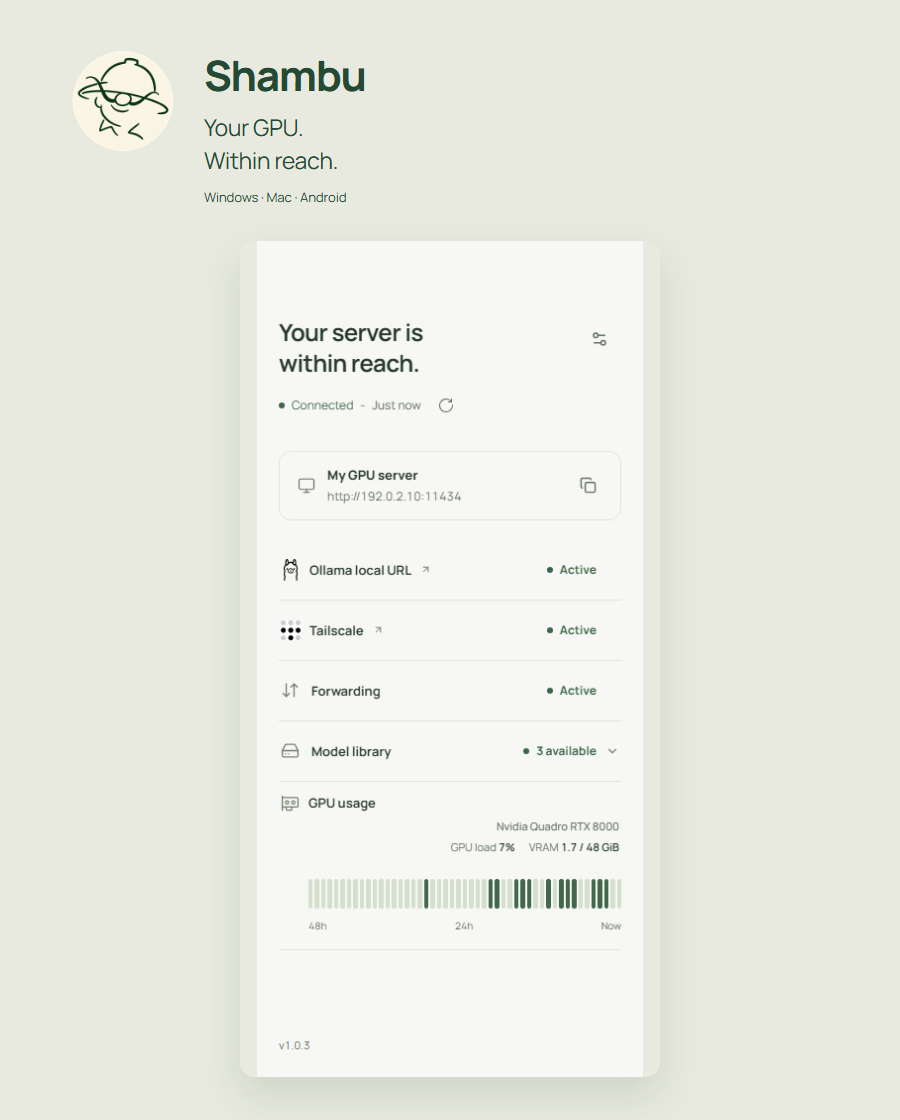
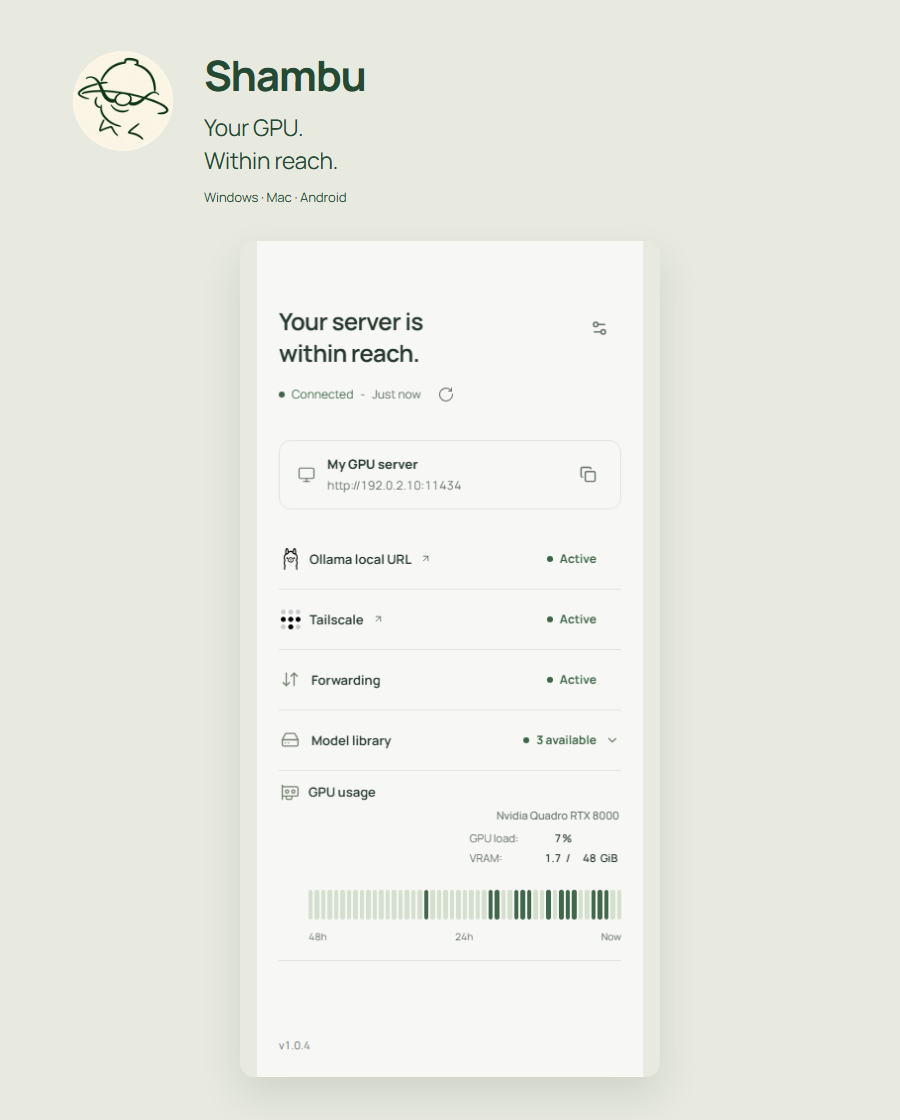
Refresh Shambu previews with stable GPU reading rows

diff --git a/README.md b/README.md
@@ -53,10 +53,10 @@ Your GPU is at home. You are somewhere else. Shambu checks that the two of you a
 
 **[Download for Windows, Mac or Android](https://github.com/desigrit/shambu/releases/latest)** &nbsp; / &nbsp; [Repository](https://github.com/desigrit/shambu)
 
-<a href="assets/shambu.png?v=1.0.3">
+<a href="assets/shambu.png?v=1.0.4">
   <picture>
-    <source media="(max-width: 600px)" srcset="assets/shambu-cover-mobile.png?v=1.0.3">
-    <img src="assets/shambu-cover.png?v=1.0.3" width="1200" alt="Shambu showing server readiness, live GPU load, VRAM usage and 48 hours of activity. Open the full-size screenshot.">
+    <source media="(max-width: 600px)" srcset="assets/shambu-cover-mobile.png?v=1.0.4">
+    <img src="assets/shambu-cover.png?v=1.0.4" width="1200" alt="Shambu showing server readiness, live GPU load, VRAM usage and 48 hours of activity. Open the full-size screenshot.">
   </picture>
 </a>
 
